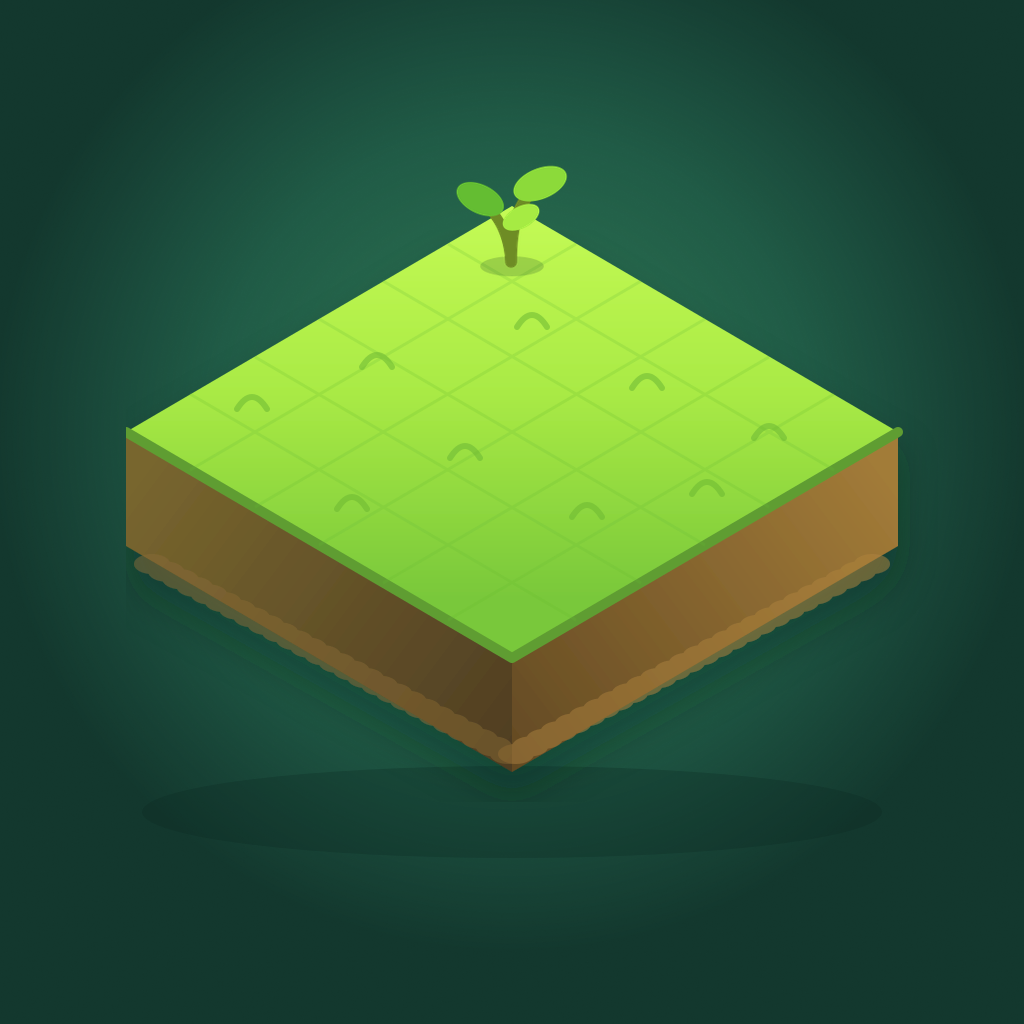
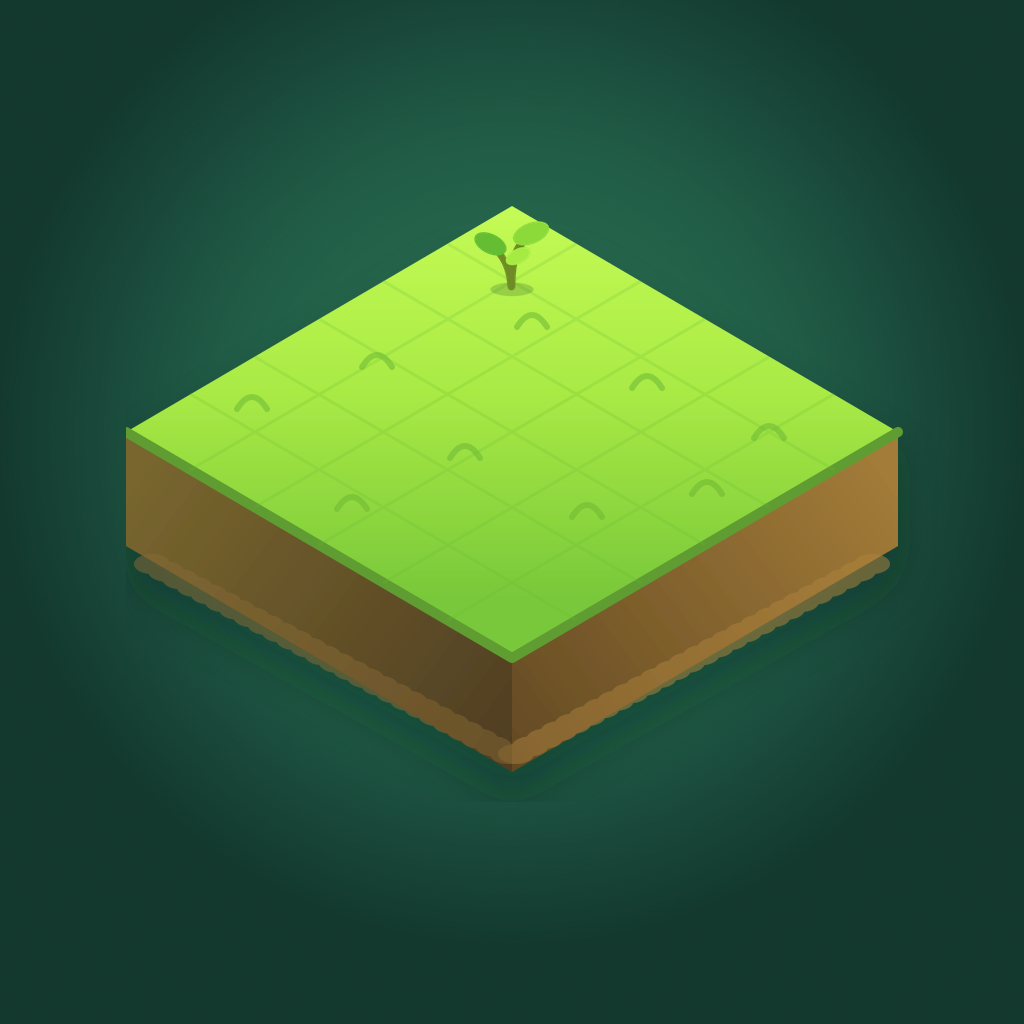
feat: add forest example image and update README with visual representation

Changed region(s): [[0.4375, 0.1562, 0.5625, 0.3125]]

diff --git a/forestImage.js b/forestImage.js
@@ -97,10 +97,10 @@ async function createPlantComposite(spritePath, point, index, stageScale = 1) {
 
 function getStageScale(stage) {
   const scales = {
-    seed: 0.56,
-    sprout: 0.72,
-    sapling: 0.86,
-    young: 0.94,
+    seed: 0.44,
+    sprout: 0.58,
+    sapling: 0.74,
+    young: 0.86,
   };
   return scales[stage] || 1;
 }
@@ -157,8 +157,9 @@ function getGridPoint(row, col) {
   const top = { x: 512, y: 206 };
   const right = { x: 898, y: 432 };
   const left = { x: 126, y: 432 };
-  const colAmount = (col + 0.5) / GRID_DIVISIONS;
-  const rowAmount = (row + 0.5) / GRID_DIVISIONS;
+  const inset = 0.065;
+  const colAmount = inset + ((col + 0.5) / GRID_DIVISIONS) * (1 - inset * 2);
+  const rowAmount = inset + ((row + 0.5) / GRID_DIVISIONS) * (1 - inset * 2);
   const x =
     top.x +
     (right.x - top.x) * colAmount +
@@ -168,7 +169,9 @@ function getGridPoint(row, col) {
     (right.y - top.y) * colAmount +
     (left.y - top.y) * rowAmount;
   const depth = row + col;
-  const size = Math.max(124, 164 - depth * 4);
+  const edgeDistance = Math.min(row, col, GRID_DIVISIONS - 1 - row, GRID_DIVISIONS - 1 - col);
+  const edgeScale = edgeDistance === 0 ? 0.84 : edgeDistance === 1 ? 0.94 : 1;
+  const size = Math.max(112, Math.round((164 - depth * 4) * edgeScale));
 
   return {
     x: Math.round(x),

diff --git a/README.md b/README.md
@@ -2,6 +2,10 @@
 
 TokoBot é um bot para Discord que ajuda a registrar páginas lidas e transforma esse hábito em uma floresta visual.
 
+## Exemplo da floresta
+
+![Floresta com 500 paginas lidas](assets/readme/forest-500.png)
+
 ## O que o bot faz
 
 O bot responde a comandos no Discord para: